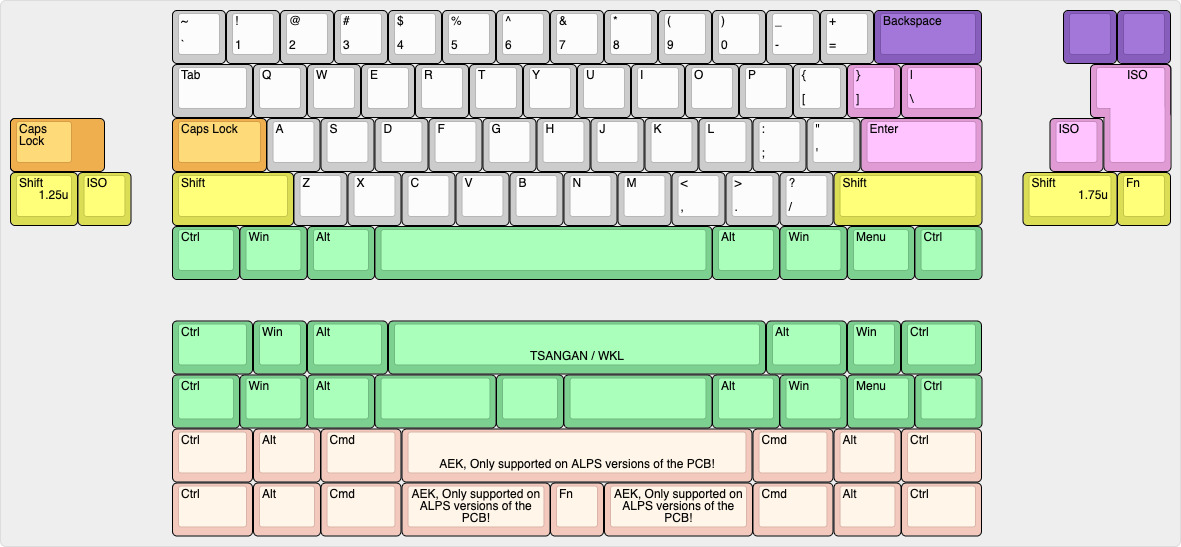
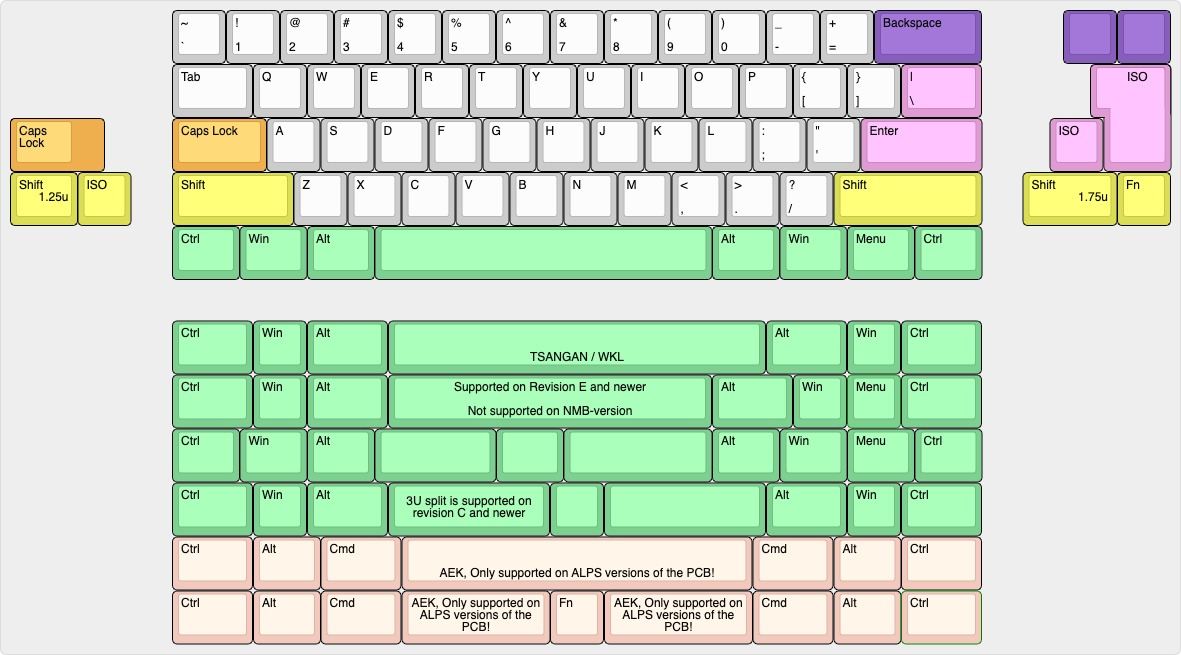
update readme

diff --git a/README.md b/README.md
@@ -1,17 +1,21 @@
 # waffling60
 
 waffling60 is a multilayout 60% PCB with support for common ANSI and ISO layouts and split space. The PCB is split into different versions:
-- ALPS tray mount version with different assembly options. Fit o-ring gummy worm if USB-port is not populated.
-- MX tray mount version with different assembly options. Fit o-ring gummy worm if USB-port is not populated.
-- MX Hot swap tray mount PCB with different assembly options in ISO layout. Fit o-ring gummy worm if USB-port is not populated.
-- MX Hot swap tray mount PCB with different assembly options in ANSI layout. Fit o-ring gummy worm if USB-port is not populated.
-- A dedicated version of the MX solder PCB to fit bakeneko/Kei cases. For use in Kei cases, a shorter daughter board cable is recommended due to different connector placement on PCB.
+- ALPS tray mount version. Fit o-ring gummy worm if USB-port is not populated.
+- MX tray mount version. Fit o-ring gummy worm if USB-port is not populated.
+- MX Hot swap tray mount PCB in ISO layout. Fit o-ring gummy worm if USB-port is not populated.
+- MX Hot swap tray mount PCB in ANSI layout. Fit o-ring gummy worm if USB-port is not populated.
+- NMB Space Invader version. Fit o-ring gummy worm if USB-port is not populated.
+- A dedicated version of the MX solder PCB to fit bakeneko/Kei cases. For use in Kei cases, a shorter or more flexible daughter board cable is recommended due to a slight different connector placement on PCB.
 - A dedicated version of the MX solder PCB to fit ai03 Polaris V1.
+
+Note: Revision E is still being added to QMK and VIA. At the moment, use revision D files for manufacturing.
 
 ## Features:
 - QMK & VIA
 - USB-C
-- RGB-led under to capslock-switch for non-hotswap versions. A transparent switch is needed to see the light from the LED through the switch.
+- RGB-led under to capslock-switch for non-hotswap and NMB versions. A transparent switch is needed to see the light from the LED through the switch.
+- 16 underglow LEDs
 - Cherry PCB-stab support
 - Split space
 - USB horizontal placement is classic GH60, same as GH60, plain60, voyager60 etc for the tray mount versions.
@@ -26,57 +30,50 @@ As an option to DIY, I'll try and keep these available for purchase here: https:
 ## Layout support MX: 
 ![alt text](./readme-images/layout_support.jpg "Layout support")
 
-## MX Solder, multiple assembly options
-![alt text](./readme-images/waffling60-MX_Rev_B4_Tray.jpg "PCB View - Rev B")
+## MX Solder
+![alt text](./readme-images/Waffling60-MX_Rev_E1.jpg "PCB View - Rev E")
 
-## ALPS Solder, multiple assembly options
-![alt text](./readme-images/waffling60-ALPS_Rev_B5_Tray.jpg "PCB View - Rev B")
+## ALPS Solder
+![alt text](./readme-images/waffling60-ALPS_Rev_E1.jpg "PCB View - Rev E")
 
 ## SE ("Bolaris")
-![alt text](./readme-images/waffling60-SE_Rev_B2.jpg "PCB View - Rev B")
+![alt text](./readme-images/waffling60-SE_Rev_E1.jpg "PCB View - Rev E")
 
-## BK ("Bakeneko")
-![alt text](./readme-images/waffling60-BK_Rev_B4.jpg "PCB View - Rev B")
+## DB (Daughterboard/"Bakeneko")
+![alt text](./readme-images/Waffling60-DB_Rev_E1.jpg "PCB View - Rev E")
 
-## Layout support MX HS: 
-![alt text](./readme-images/layout_support_HS.png "Layout support")
+## NMB (NMB/Space Invaders)
+![alt text](./readme-images/Waffling60-NMB_Rev_E1.jpg "PCB View - Rev E")
+
+## Layout support MX HS ISO: 
+![alt text](./readme-images/layout_support_HS_ISO.jpg "Layout support")
 
 ## MX Hot Swap ISO
-![alt text](./readme-images/waffling60-MXHS_Rev_C1.png "PCB View - Rev C")
+![alt text](./readme-images/waffling60-MXHS-ISO_Rev_E1.jpg "PCB View - Rev E")
+
+## Layout support MX HS ANSI: 
+![alt text](./readme-images/layout_support_HS_ANSI.jpg "Layout support")
+
+## MX Hot Swap ANSI
+![alt text](./readme-images/waffling60-MXHS-ANSI_Rev_E1.jpg "PCB View - Rev E")
 
 
 ## Instructions for manufacturing.
 
-The regular solder versions of this project can be assembled in two different configurations:
-1. Traditional tray mount with USB-C connector
-2. Daughter board connector with no USB-C connector in bakeneko position
-
-In most versions, a "all" configuration is also included, this is not a "one config fits all", it's intended to be used for making your own config. The special versions like bakeneko/polaris and hotswap have one assembly option.
+All PCBs except for the SE-version ("Bolaris") can be assembled for use with a bakeneko-style case. Simply remove the USB-port from the BOM or do de-select it/tell the manu not to assemble it.
 
 ## For ordering:
 The following files are needed for the PCB Fab:
 - BOM (contains component specifications)
 - Pick and Place (contains component placement data)
 - Gerber (contains PCB drawings and drill files)
-- (optional) Assembly drawing, for manual assembly
-
-Select the files for the desired configuration. Gerber and Pick and Place files will be the same for all three configurations, BUT!, you need to select the correct BOM for your configuration.
-
-If you want to make a bakeneko compatible PCB, select the bakeneko BOM when ordering PCB's.
 
 ## Releases
 Files for manufacturing can be found in releases.
 
-Releases are split into the following versions of the PCB: (note: not the same as configuration)
-- Waffling60 MX, a MX solder PCB in three configurations: Bakeneko, Tray
-- Waffling60 Alps, a ALPS solder PCB in three configurations: Bakeneko, Tray and
-- Waffling60 SE, a PCB compatible with AI03 Polaris, same layout support as the regular MX PCB. Order in 1.2mm thickness for use with the Polaris. Same flexcut and stab rotations as the OG PCB.
-- Waffling60 BK, a dedicated bakeneko version of the regular MX PCB.
-
-## For clarity
+## Revision naming scheme
 - Revision: When updating the PCB I bump the revision. The revision is specified with a letter and a number. For big changes, the letter is changed (usually also include code changes), for minor changes, only the number is bumped.
 - Version: Version specifies different switch types, PCB's specific to certain cases etc.
-- Configuration: Different assembly options for a specific version of waffling60 
 
 ## Revision history:
 - Rev A1: Initial prototype based on Steezy60 Alps-version.
@@ -88,5 +85,6 @@ Releases are split into the following versions of the PCB: (note: not the same a
 - Rev B5 - Alps: Adding symetrical split space support using AEK-keycaps and adding RGB led below capslock switch for use with transparent switches (matias)
 - Rev C1: Revision adds 3u+1U+3U Split space and 10U space support.
 - Rev D1: Moves to APM32 MCU, minor changes to routing and USB shielding.
+- Rev E1: Adds NMB version. Adds underglow, rotary encoder support and 6u space support.
 
 <a href='https://ko-fi.com/4pplet' target='_blank'><img height='35' style='border:0px;height:46px;' src='https://az743702.vo.msecnd.net/cdn/kofi3.png?v=0' border='0' alt='Buy Me a Coffee at ko-fi.com' />
